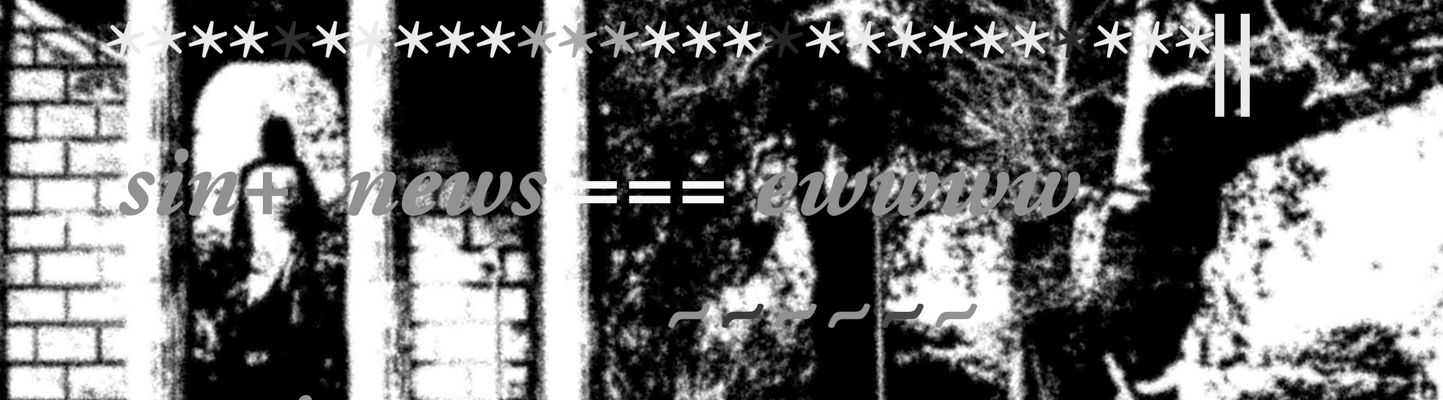
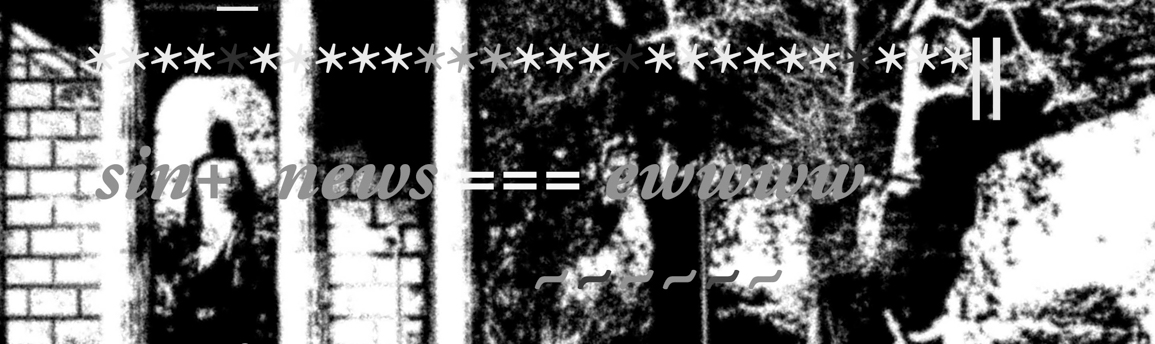
shrinks sundry header background images + instantiates issue5 rainey contribution

diff --git a/pages/issue5/rainey.js b/pages/issue5/rainey.js
@@ -1,0 +1,58 @@
+import Head from 'next/head'
+import Header from '../../components/header.js'
+import RightBlackTitle from '../../components/rightBlackTitle.js'
+import RightGrayTitle from '../../components/rightGrayTitle.js'
+import StandardProse from '../../components/standardProse.js'
+import Footer from '../../components/footer.js'
+import styles from '../../styles/Rainey.module.css'
+
+export default function Feldman() {
+  return (
+      <>
+          <Head/>
+
+       <Header headerBackground="raineyBackground"/>
+      <br/>
+      <br/>
+      <RightGrayTitle>[]</RightGrayTitle>
+      <RightBlackTitle>jacqueline feldman</RightBlackTitle>
+      <br/>
+      <StandardProse>
+      After sixteen brothers, my mother prayed for a daughter, someone to inherit her name and
+      dry the dishes, someone to dial after death. Someone to whom she could outsource her exhaustion.
+      She got on her knees for the first time since my father and prayed to Guanyin, the god of daughters,
+      who in my household was headless, on account of my fourteenth brother decapitating the statuette of
+      Guanyin during his teething days, all the holes he left in our hands. My mother said that the women
+      in her family were born without molars, that their smiles were like sieves, that when they were of
+      a certain age, molars were installed in their gums by staking shards of porcelain into the flesh.
+      But nothing could substitute roots, and so when my mother bit into anything harder than her fist,
+      she cried out and spat slivers of china into my palm. Our statuette of Guanyin lives in the microwave,
+      which was left out on our neighbor’s curb, though none of us had ever used a microwave before, and we
+      used to put all kinds of things on the rotating glass plate and shut the door and punch the highest
+      number we knew, which was twenty-two. We microwaved strands of our hair, a dead mouse we found in
+      the sink, my mother’s pearl necklace that turned out to be plastic, the liquid dragged out like
+      a wedding veil. One time we tried to microwave my youngest brother, but only his head fit inside,
+      and we couldn’t close the door with his neck in the way. Finally my mother said we couldn’t use it
+      anymore, that it used too much electricity and the sun was the only public source of light, and she
+      sanctified the microwave with Guanyin, who through the fogged glass resembled my mother, a face always
+      far away. At night, she stood above the tatami mat where me and my brothers slept and whispered just
+      to me: you are the one I was waiting for. But my mother was not the kind of person who waited, she was
+      the kind of person who pulled babies out of her body like pins from a grenade, who was too impatient
+      to wait for my oldest brother to fix the fountaining toilet. She shat in a cabinet and forgot about it,
+      until the stink made even the streets turn away, redirecting cars to another city. At night, she liked
+      to rope my hair into her fist and dangle me and say, <i>let’s run away</i>. My sixteen brothers outgrew
+      the doorway and moved away, one at a time, and then it was just me and my mother, and if she said
+      anything to me at night it was <i>go to bed with your hair wet again and you’ll go crazy like your aunt
+      who went naked for a whole year</i>, <i>even the night averted its eyes</i>, and one night I heard her praying
+      in the kitchen, the first time I ever saw her alone, without my brothers baying between her legs,
+      and she said, <i>let her be like this forever</i>, <i>sleeping with no one beside her</i>, <i>let her live
+      alone with her hunger</i>, and then she shut the door of the microwave and pressed a number, beyond what I
+      could imagine, and behind the glass, Guanyin detonated, sharding into sixteen pieces I would need to
+      tweeze out of me.
+      </StandardProse>
+
+       <Footer/>
+
+         </>
+     )
+   }

diff --git a/styles/Header.module.css b/styles/Header.module.css
@@ -166,13 +166,8 @@
   background-image:url("../public/images/TheaterHeader.jpg");
 }
 
-.siteBarContainerAbout {
-  height:65vh;
-  background-image:url("../public/images/LineNewSinew.jpg");
-  background-size:cover;
-  background-repeat:no-repeat;
-  background-attachment:fixed;
-  font-size:1rem;
+.raineyBackground {
+  background-image:url("../public/images/RaineyBackground.jpg");
 }
 
 .iconPlusSitebar {

diff --git a/galleryText/theaterGalleryText.js b/galleryText/theaterGalleryText.js
@@ -1,6 +1,3 @@
-import Image from 'next/image'
-import CenterGrayTitle from '../components/centerGrayTitle.js'
-import CenterBlackTitle from '../components/centerBlackTitle.js'
 import styles from '../styles/Theater.module.css'
 
 export function TheaterRawText1(){
